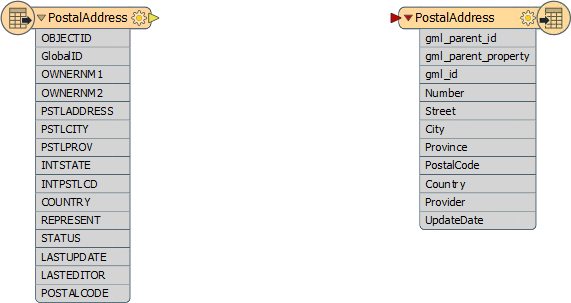
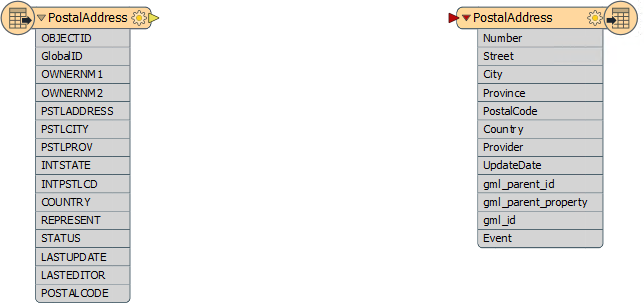
2017 Chapter 5 Fixes to Exercise 1

Changed region(s): [[0.0, 0.0, 0.268, 1.0], [0.6848, 0.0, 1.0, 0.8317]]

diff --git a/DesktopBasic5Transformers/5.Exercise2.md b/DesktopBasic5Transformers/5.Exercise2.md
@@ -8,7 +8,7 @@
 <span style="color:white;font-size:x-large;font-weight: bold">Exercise 2</span>
 </td>
 <td style="border: 2px solid darkorange;background-color:darkorange;color:white">
-<span style="color:white;font-size:x-large;font-weight: bold">Noise Control Laws Project</span>
+<span style="color:white;font-size:x-large;font-weight: bold">Noise Control Laws Project (Spatial Filtering)</span>
 </td>
 </tr>
 
@@ -29,7 +29,7 @@
 
 <tr>
 <td style="border: 1px solid darkorange; font-weight: bold">Start Workspace</td>
-<td style="border: 1px solid darkorange">None</td>
+<td style="border: 1px solid darkorange">C:\FMEData2017\Workspaces\DesktopBasic\Transformers-Ex2-Begin.fmw</td>
 </tr>
 
 <tr>
@@ -39,13 +39,19 @@
 
 </table>
 
-City councillors have voted to amend noise control laws. However, local residents living in a single-family residence within 50 metres of a major highway must be contacted to inform them of these changes.
+As you know, city councillors have voted to amend noise control laws and local residents living in affected areas must be informed of these changes.
 
-You have been recommended by your manager to take on the task of finding all affected addresses. There's a tight deadline and at least three city councillors are standing watching you work. The pressure is on and it's up to you to deliver!
+You have been recommended by your manager to take on the task and there's a tight deadline.
+
+In the first part of the project you created a workspace to convert addresses from Geodatabase to Excel, mapping the schema at the same time. 
+
+This exercise is the second part of the project: locating all affected residents. You must locate all single-family residences within 50 metres of a major highway and filter out all others from the stream of address data.
 
 
 <br>**1) Start Workbench**
-<br>Start Workbench and create a new empty workspace.
+<br>Start Workbench (if necessary) and open the workspace from Exercise 1. Alternatively you can open C:\FMEData2017\Workspaces\DesktopBasic\Transformers-Ex2-Complete.fmw
+
+The workspace already has a reader to read addresses, transformers to edit the address schema, and a writer to write data to an Excel spreadsheet.
 
 
 <br>**2) Add Reader (Roads data)**

diff --git a/DesktopBasic5Transformers/5.Exercise1.md b/DesktopBasic5Transformers/5.Exercise1.md
@@ -8,7 +8,7 @@
 <span style="color:white;font-size:x-large;font-weight: bold">Exercise 1</span>
 </td>
 <td style="border: 2px solid darkorange;background-color:darkorange;color:white">
-<span style="color:white;font-size:x-large;font-weight: bold">Address Open Data Project</span>
+<span style="color:white;font-size:x-large;font-weight: bold">Noise Control Laws Project (Addresses)</span>
 </td>
 </tr>
 
@@ -39,7 +39,7 @@
 
 </table>
 
-City councillors have voted to amend noise control laws. However, local residents living in a single-family residence within 50 metres of a major highway must be contacted to inform them of these changes.
+City councillors have voted to amend noise control laws and local residents living in affected areas must be informed of these changes.
 
 You have been recommended by your manager to take on the task of finding all affected addresses. There's a tight deadline and at least three city councillors are standing watching you work. The pressure is on and it's up to you to deliver!
 
@@ -351,6 +351,27 @@ We're assuming that no street name has more than three parts to it, but that's r
 Open the containing folder to check the output has been written. Inspect the data in the FME Data Inspector. The output (in the Table View window) should look like this:
 
 ![](./Images/Img5.212.Ex1.FinalOutputAttribute.png)
+
+---
+
+<!--Tip Section--> 
+
+<table style="border-spacing: 0px">
+<tr>
+<td style="vertical-align:middle;background-color:darkorange;border: 2px solid darkorange">
+<i class="fa fa-info-circle fa-lg fa-pull-left fa-fw" style="color:white;padding-right: 12px;vertical-align:text-top"></i>
+<span style="color:white;font-size:x-large;font-weight: bold;font-family:serif">TIP</span>
+</td>
+</tr>
+
+<tr>
+<td style="border: 1px solid darkorange">
+<span style="font-family:serif; font-style:italic; font-size:larger">
+The Event field is still empty at this point, but will be completed in a subsequent exercise.
+</span>
+</td>
+</tr>
+</table>
 
 ---
 
